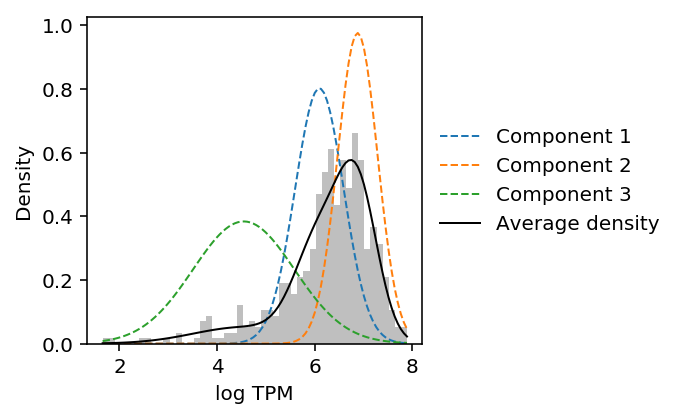
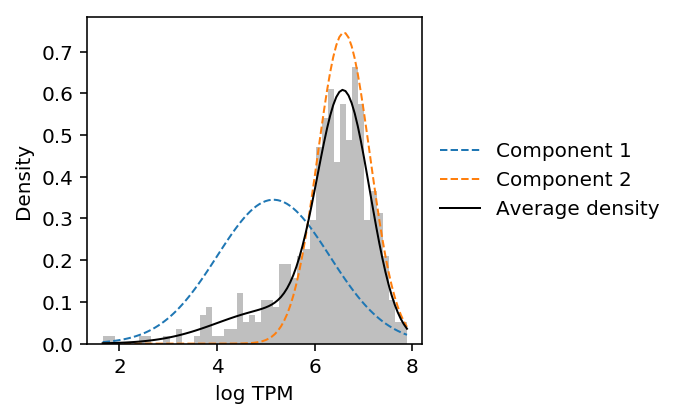
Really use Mclust

diff --git a/docs/pitfalls.html b/docs/pitfalls.html
@@ -1,7 +1,7 @@
 <!DOCTYPE html>
 <html lang="en">
 <head>
-<!-- 2018-09-18 Tue 13:26 -->
+<!-- 2018-09-18 Tue 16:05 -->
 <meta charset="utf-8">
 <meta name="viewport" content="width=device-width, initial-scale=1">
 <title>Common pitfalls in estimating the number of modes of gene expression</title>
@@ -342,6 +342,14 @@ Now, simulate negative binomial count data, assuming 25,000 molecules per
 cell and a range of parameters <a href="https://users.rcc.uchicago.edu/~aksarkar/singlecell-qtl/zinb.html#orgac1f6dc">matching real data</a>:
 </p>
 
+<p>
+\[ r_{ij} \sim \mathrm{Poisson}(R_i \lambda_{ij}) \]
+</p>
+
+<p>
+\[ \lambda_{ij} \sim \mathrm{Gamma}(\mu, \phi) \]
+</p>
+
 
 <div class="figure">
 <p><img src="https://users.rcc.uchicago.edu/~aksarkar/singlecell-qtl/figure/zinb.org/joint-distribution.png" alt="joint-distribution.png">
@@ -372,6 +380,12 @@ plt.xlabel(<span class="org-string">'$\log_2(r + 1)$ of cell 1'</span>)
 <p><img src="figure/pitfalls.org/pois.png" alt="pois.png">
 </p>
 </div>
+
+<p>
+The results suggest that the observed pattern of zeros in the joint
+distribution of genes across cells can arise simply from Poisson
+sampling. The observed outliers can be explained by overdispersion as well.
+</p>
 </div>
 </div>
 
@@ -403,49 +417,77 @@ Data set <i>sc2</i> is scRNA-Seq of hESCs generated in <a href="https://www.ncbi
 </div>
 
 <p>
-To estimate the number of modes, BK2016 fit a Gaussian mixture model to
-log-transformed expression, selecting the number of components which
-optimizes BIC.
+To estimate the number of modes, Bacher and Kendziorski fit a Gaussian
+mixture model to log-transformed expression, selecting the number of
+components which optimizes BIC.
 </p>
 
 <div class="org-src-container">
-<pre class="src src-ipython"><span class="org-keyword">def</span> <span class="org-function-name">naive_est_modes</span>(x):
-  <span class="org-variable-name">bic</span> = np.infty
-  <span class="org-variable-name">opt</span> = <span class="org-constant">None</span>
-  <span class="org-keyword">for</span> cv_type <span class="org-keyword">in</span> [<span class="org-string">'spherical'</span>, <span class="org-string">'tied'</span>, <span class="org-string">'diag'</span>, <span class="org-string">'full'</span>]:
-    <span class="org-keyword">for</span> n_components <span class="org-keyword">in</span> <span class="org-builtin">range</span>(1, 4):
-      <span class="org-variable-name">m</span> = skm.GaussianMixture(n_components=n_components,
-                              covariance_type=cv_type)
-      m.fit(x)
-      <span class="org-keyword">if</span> m.bic(x) &lt; bic:
-        <span class="org-variable-name">bic</span> = m.bic(x)
-        <span class="org-variable-name">opt</span> = m
-  <span class="org-keyword">return</span> m
+<pre class="src src-ipython"><span class="org-keyword">def</span> <span class="org-function-name">naive_est_num_modes</span>(x):
+  <span class="org-variable-name">x</span> = np.log(x.mask(x == 0).dropna()).values.reshape(-1, 1)
+  <span class="org-keyword">if</span> x.shape[0] &gt; 1:
+    <span class="org-variable-name">res</span> = mclust.Mclust(x, verbose=<span class="org-constant">False</span>)
+    <span class="org-keyword">return</span> np.array(res.rx2(<span class="org-string">'parameters'</span>).rx2(<span class="org-string">'mean'</span>)).shape[0]
+  <span class="org-keyword">else</span>:
+    <span class="org-keyword">return</span> np.nan
 </pre>
 </div>
 
-<p>
-Look at one example.
-</p>
-
 <div class="org-src-container">
-<pre class="src src-ipython"><span class="org-variable-name">x</span> = leng_tpm.loc[<span class="org-string">'CDC6'</span>]
-<span class="org-variable-name">x</span> = np.log(x.mask(x == 0).dropna()).values.reshape(-1, 1)
-<span class="org-variable-name">m</span> = naive_est_modes(x)
+<pre class="src src-ipython"><span class="org-variable-name">num_modes</span> = (leng_tpm
+             .loc[(leng_tpm &gt; 0).mean(axis=1) &gt; 0.75]
+             .sample(n=1000, random_state=0)
+             .<span class="org-builtin">apply</span>(naive_est_num_modes, axis=1))
 </pre>
 </div>
 
 <div class="org-src-container">
 <pre class="src src-ipython">plt.clf()
 plt.gcf().set_size_inches(3, 3)
-<span class="org-variable-name">grid</span> = np.linspace(x.<span class="org-builtin">min</span>(), x.<span class="org-builtin">max</span>(), 100)
-plt.hist(x, color=<span class="org-string">'.75'</span>, bins=50, density=<span class="org-constant">True</span>)
-<span class="org-keyword">for</span> i, (mu, s2) <span class="org-keyword">in</span> <span class="org-builtin">enumerate</span>(<span class="org-builtin">zip</span>(m.means_, m.covariances_)):
-  plt.plot(grid, st.norm(loc=mu, scale=np.sqrt(s2.ravel())).pdf(grid), lw=1, label=<span class="org-string">'Component {}'</span>.<span class="org-builtin">format</span>(i + 1), ls=<span class="org-string">'--'</span>)
-plt.plot(grid, m.weights_.dot(st.norm(loc=m.means_, scale=np.sqrt(m.covariances_.reshape(-1, 1))).pdf(grid)), label=<span class="org-string">'Average density'</span>, lw=1, c=<span class="org-string">'k'</span>)
-plt.legend(frameon=<span class="org-constant">False</span>, loc=<span class="org-string">'center left'</span>, bbox_to_anchor=(1, .5))
-plt.xlabel(<span class="org-string">'log TPM'</span>)
-<span class="org-variable-name">_</span> = plt.ylabel(<span class="org-string">'Density'</span>)
+plt.hist(num_modes, bins=np.arange(num_modes.dropna().<span class="org-builtin">max</span>()), color=<span class="org-string">'black'</span>)
+plt.xlabel(<span class="org-string">'Number of modes'</span>)
+<span class="org-variable-name">_</span> = plt.ylabel(<span class="org-string">'Number of genes'</span>)
+</pre>
+</div>
+
+
+<div class="figure">
+<p><img src="figure/pitfalls.org/gmm-mode-hist.png" alt="gmm-mode-hist.png">
+</p>
+</div>
+
+<p>
+Look at some examples.
+</p>
+
+<div class="org-src-container">
+<pre class="src src-ipython"><span class="org-keyword">def</span> <span class="org-function-name">plot_data_gmm</span>(x):
+  <span class="org-variable-name">x</span> = np.log(x.mask(x == 0).dropna()).values.reshape(-1, 1)
+  <span class="org-variable-name">res</span> = mclust.Mclust(x, verbose=<span class="org-constant">False</span>)
+  plt.clf()
+  plt.gcf().set_size_inches(3, 3)
+  <span class="org-variable-name">grid</span> = np.linspace(x.<span class="org-builtin">min</span>(), x.<span class="org-builtin">max</span>(), 100)
+  plt.hist(x, color=<span class="org-string">'.75'</span>, bins=50, density=<span class="org-constant">True</span>)
+  <span class="org-variable-name">means</span> = np.array(res.rx2(<span class="org-string">'parameters'</span>).rx2(<span class="org-string">'mean'</span>)).reshape(-1, 1)
+  <span class="org-variable-name">variances</span> = np.array(res.rx2(<span class="org-string">'parameters'</span>).rx2(<span class="org-string">'variance'</span>).rx2(<span class="org-string">'sigmasq'</span>)).reshape(-1, 1)
+  <span class="org-variable-name">F</span> = st.norm(loc=means, scale=np.sqrt(variances)).pdf(grid)
+  <span class="org-keyword">for</span> i, px <span class="org-keyword">in</span> <span class="org-builtin">enumerate</span>(F):
+    plt.plot(grid, px, lw=1, label=<span class="org-string">'Component {}'</span>.<span class="org-builtin">format</span>(i + 1), ls=<span class="org-string">'--'</span>)
+  <span class="org-variable-name">weights</span> = np.array(res.rx2(<span class="org-string">'parameters'</span>).rx2(<span class="org-string">'pro'</span>))
+  plt.plot(grid, weights.dot(st.norm(loc=means, scale=np.sqrt(variances)).pdf(grid)), label=<span class="org-string">'Average density'</span>, lw=1, c=<span class="org-string">'k'</span>)
+  plt.legend(frameon=<span class="org-constant">False</span>, loc=<span class="org-string">'center left'</span>, bbox_to_anchor=(1, .5))
+  plt.xlabel(<span class="org-string">'log TPM'</span>)
+  <span class="org-variable-name">_</span> = plt.ylabel(<span class="org-string">'Density'</span>)
+</pre>
+</div>
+
+<p>
+<i>CDC6</i> was reported as a gene showing cyclical gene expression through the
+cell cycle in the original study.
+</p>
+
+<div class="org-src-container">
+<pre class="src src-ipython">plot_data_gmm(leng_tpm.loc[<span class="org-string">'CDC6'</span>])
 </pre>
 </div>
 
@@ -456,45 +498,41 @@ plt.xlabel(<span class="org-string">'log TPM'</span>)
 </div>
 
 <p>
-Now, look at Poisson data which is constructed to be unimodal.
+Look at the gene with the most estimated modes.
 </p>
 
 <div class="org-src-container">
-<pre class="src src-ipython">np.random.seed(1)
-<span class="org-variable-name">mu</span> = np.exp(-3)
-<span class="org-variable-name">N</span> = 460
-<span class="org-variable-name">size</span> = 1e5
-<span class="org-variable-name">x</span> = np.random.poisson(lam=size * mu, size=N)
-<span class="org-variable-name">x</span> = np.ma.masked_invalid(np.log(x)).compressed().reshape(-1, 1)
-<span class="org-variable-name">m</span> = naive_est_modes(x)
+<pre class="src src-ipython">num_modes.idxmax()
 </pre>
 </div>
 
+<pre class="example">
+'SEPN1'
+
+</pre>
+
 <div class="org-src-container">
-<pre class="src src-ipython">plt.clf()
-plt.gcf().set_size_inches(3, 3)
-<span class="org-variable-name">grid</span> = np.linspace(x.<span class="org-builtin">min</span>(), x.<span class="org-builtin">max</span>(), 100)
-plt.hist(x, color=<span class="org-string">'.75'</span>, bins=50, density=<span class="org-constant">True</span>)
-<span class="org-keyword">for</span> i, (mu, s2) <span class="org-keyword">in</span> <span class="org-builtin">enumerate</span>(<span class="org-builtin">zip</span>(m.means_, m.covariances_)):
-  plt.plot(grid, st.norm(loc=mu, scale=np.sqrt(s2.ravel())).pdf(grid), lw=1, label=<span class="org-string">'Component {}'</span>.<span class="org-builtin">format</span>(i + 1), ls=<span class="org-string">'--'</span>)
-plt.plot(grid, m.weights_.dot(st.norm(loc=m.means_, scale=np.sqrt(m.covariances_.reshape(-1, 1))).pdf(grid)), label=<span class="org-string">'Average density'</span>, lw=1, c=<span class="org-string">'k'</span>)
-plt.legend(frameon=<span class="org-constant">False</span>, loc=<span class="org-string">'center left'</span>, bbox_to_anchor=(1, .5))
-plt.xlabel(<span class="org-string">'log CPM'</span>)
-<span class="org-variable-name">_</span> = plt.ylabel(<span class="org-string">'Density'</span>)
+<pre class="src src-ipython">plot_data_gmm(leng_tpm.loc[<span class="org-string">'SEPN1'</span>])
 </pre>
 </div>
 
 
 <div class="figure">
-<p><img src="figure/pitfalls.org/gmm-pois.png" alt="gmm-pois.png">
+<p><img src="figure/pitfalls.org/gmm-sepn1.png" alt="gmm-sepn1.png">
 </p>
 </div>
+
+<p>
+The results suggest that Gaussian mixture modeling of log-transformed data
+does not give the right answer. Further, they suggest that GMM overfits the
+data (despite optimizing BIC).
+</p>
 </div>
 </div>
 </div>
 <div id="postamble" class="status">
 <p class="author">Author: Abhishek Sarkar</p>
-<p class="date">Created: 2018-09-18 Tue 13:26</p>
+<p class="date">Created: 2018-09-18 Tue 16:05</p>
 <p class="validation"><a href="http://validator.w3.org/check?uri=referer">Validate</a></p>
 </div>
 </body>
